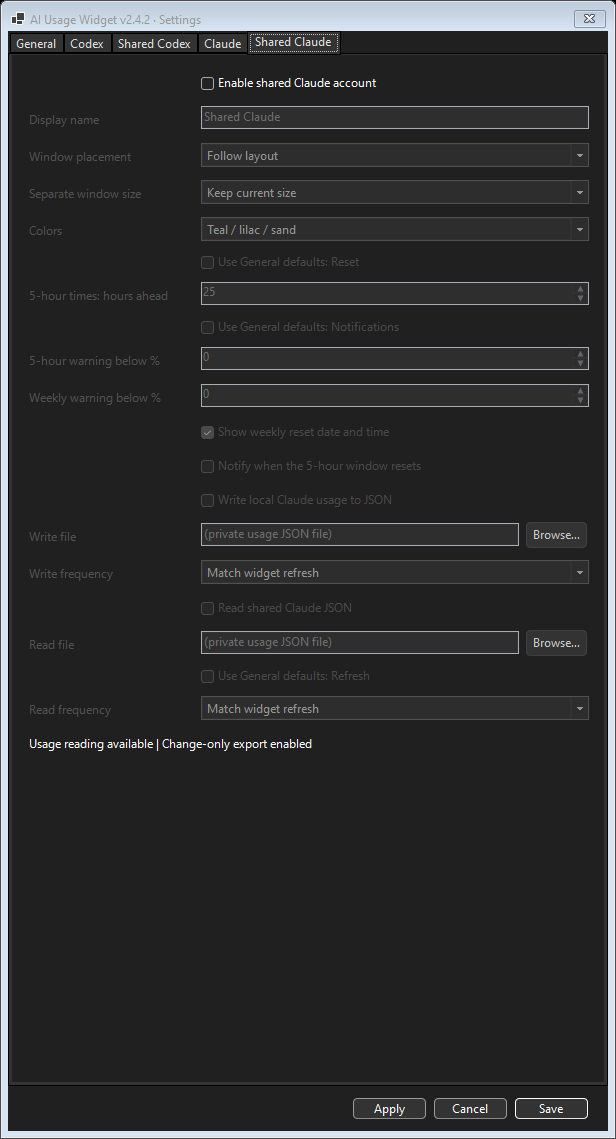
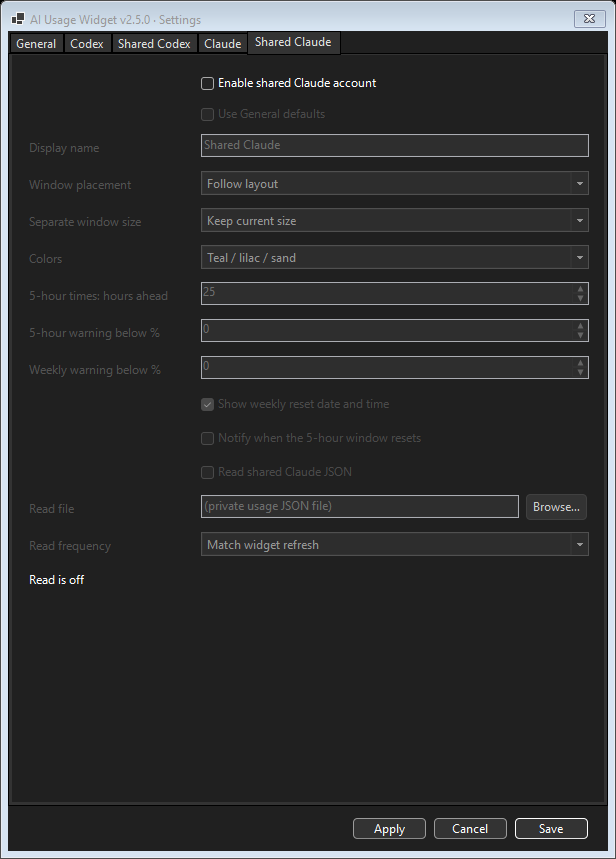
Fix refresh restoration and simplify source account settings

diff --git a/extradetails.md b/extradetails.md
@@ -2,7 +2,7 @@
 
 [Quick start and screenshots](README.md) · [Changelog](changelog.md)
 
-This guide covers AI Usage Widget 2.4.2.
+This guide covers AI Usage Widget 2.5.0.
 
 For development checks, see [tests/README.md](tests/README.md). The regression runner uses temporary state and example readings without accessing a live account.
 
@@ -99,30 +99,26 @@ Settings remains open without blocking either desktop window. Account picker lab
 
 **Apply** validates, saves, and displays changes without closing Settings. **Save** does the same and closes. **Cancel** discards unapplied edits; it does not undo changes already applied.
 
-Each account has separate **Use General defaults** switches for refresh, reset display and notifications. Codex accounts can also inherit credit display. Checked groups preview General's values and lock the account controls; unchecking restores custom values. **Apply** saves defaults and overrides without closing the dialog; **Cancel** discards changes made since the last Apply. Existing installations retain their account choices with inheritance off. Colors, names, account enable switches, connection files and publishing cadence remain independent. For shared sources, inherited refresh controls the input file-reading cadence.
+Each account has one **Use General defaults** switch at the top for refresh, reset display and notifications, plus credit display for Codex. Checking it previews General's values and locks those account controls; unchecking restores all manual values. Earlier mixed inheritance is preserved with a mixed mark until you change the switch. **Apply** saves defaults and overrides without closing the dialog; **Cancel** discards changes made since the last Apply. Existing account choices and saved manual values are preserved. Colors, names, account enable switches, connection files and publishing cadence remain independent. For shared sources, inherited refresh controls the input file-reading cadence.
 
 Wide, short windows automatically show static metric columns: 5-hour, weekly and credits when enabled. Account names remain above each group; unavailable/disabled Claude credits stay blank. There is no animation or scrolling. Shrinking to about menu-bar height puts each account name and its metrics on one line. As width decreases, countdowns drop before metric labels; names shorten only afterward. Full reset details remain available on hover, and the thin height is saved for reopening. Stacked accounts each retain one readable line. Increasing height restores the larger layouts.
 
-**Enable shared Codex account** unlocks its controls. Turning it off and applying stops file writing/reading, hides the second account, stops its alerts and file timers, and preserves all connection and account choices. The switch remains available while the rest of Shared is locked. Writing and reading have independent switches within the enabled tab.
+**Enable shared Codex account** unlocks imported-account controls. Turning it off stops imported readings, display and alerts while preserving its saved choices. Local publishing is independent: configure **Write my usage to JSON** on **Codex** or **Write local Claude usage to JSON** on **Claude**. Publishing stops when that local source is disabled. Shared tabs contain only incoming file connections.
 
-Codex and Shared screenshots are in the [README](README.md). File connections appear farther down Shared:
-
-<img src="docs/screenshots/settings-shared-connections.png" alt="Shared file connection settings" width="340">
-
-<img src="docs/screenshots/settings-menu.png" alt="Tray menu" width="220">
+Current account and connection screenshots are in the [README](README.md).
 
 ## Two computers and file sharing
 
 The same OneDrive folder can be used from multiple Windows computers at the same time. Each computer needs Codex and PowerShell 7 installed and must be signed in to Codex locally. Credentials and Codex caches remain local to each computer; the widget scripts sync through OneDrive. Optional usage JSON files contain quota information, not credentials.
 
 
-Sharing is opt-in and configured separately on each computer under **Settings... → Shared Codex**. Both machines need access to a private synced folder, such as OneDrive. They may use different Codex accounts. Keep the JSON files outside the public widget project and do not commit them to Git.
+Sharing is opt-in: outgoing Codex files are configured under **Settings... → Codex**, and incoming files under **Shared Codex**. Both machines need access to a private synced folder, such as OneDrive. They may use different Codex accounts. Keep the JSON files outside the public widget project and do not commit them to Git.
 
 1. Create a private shared folder, for example `WidgetUsage`, separate from this project.
-2. On Computer A, turn on **Enable shared Codex account**, enable **Write my usage to JSON**, give it a nickname, and choose a new `account-a.json` output file. Save to create its first file after a successful local reading.
-3. On Computer B, enable Shared and do the same with a different nickname and `account-b.json`.
-4. After the files sync, enable **Read the shared computer's JSON** on A and select B's file; on B select A's file. Paths may differ between computers. Never select the same file as input and output.
-5. On **Shared Codex**, select Side by side, Stacked, Account picker, or Separate windows and a palette for the second account. Use **Codex** for the local palette. Then choose a window preset if needed.
+2. On Computer A, open **Codex**, enable **Write my usage to JSON**, give it a nickname, and choose a new `account-a.json` output file. Save to create its first file after a successful local reading.
+3. On Computer B, use **Codex** to do the same with a different nickname and `account-b.json`. Neither computer needs to enable its shared account just to publish.
+4. After the files sync, enable **Shared Codex** and **Read the shared computer's JSON** on A and select B's file; on B select A's file. Paths may differ between computers. Never select the same file as input and output.
+5. On **General**, select Side by side, Stacked, Account picker, or Separate windows. Use **Shared Codex** for the shared palette and **Codex** for the local palette. Then choose a window preset if needed.
 
 | Connection | Computer A | Computer B |
 | --- | --- | --- |
@@ -172,7 +168,7 @@ Choose an independent refresh interval and palette, reset details, warning thres
 
 ## Sharing Claude between computers
 
-In **Shared Claude**, enable the master switch and choose separate Claude output and input JSON files outside the public project. Each computer writes its own local Claude reading and reads the other computer’s file. Do not reuse Codex JSON files: snapshots carry a provider label and incorrect provider files are rejected. Both computers should use version 2.2.0 or later.
+In **Claude**, enable local JSON writing and choose an output file outside the public project. In **Shared Claude**, enable the imported account and choose its input JSON file only when you want to read another computer. Each computer writes its own local Claude reading and reads the other computer’s file. Do not reuse Codex JSON files: snapshots carry a provider label and incorrect provider files are rejected. Both computers should use version 2.2.0 or later.
 
 Write and read switches and intervals are independent. Matching reads follow the local Claude refresh interval even if local Claude is disabled; manual-only stays manual. Local Claude must be enabled and freshly connected to publish new readings. Exports change only when usage or account metadata changes, with automatic 30-minute check-ins. Shared Claude has its own colors, reset display, notifications, placement, window size and position. Its name comes from the imported file. Failed or stale imports keep the last known reading and cannot trigger fresh-usage alerts.
 

diff --git a/README.md b/README.md
@@ -4,7 +4,7 @@
 
 A small Windows desktop and tray widget for **Codex and Claude subscription usage left**, reset times, credits where available, and notifications. Show local accounts and accounts from another computer through private shared JSON files.
 
-**Version 2.4.2** · [Changelog](changelog.md) · [Detailed guide and troubleshooting](extradetails.md)
+**Version 2.5.0** · [Changelog](changelog.md) · [Detailed guide and troubleshooting](extradetails.md)
 
 ## Quick start
 
@@ -34,7 +34,7 @@ Drag to move; hover to resize from either bottom corner. Use **↻** to refresh,
 
 ## Settings
 
-Right-click the tray icon → **Settings...**. **General** holds window/startup controls and default refresh, reset-display, notification and Codex credit settings. **Codex**, **Shared Codex**, **Claude**, and **Shared Claude** each have separate “Use General defaults” switches by group; unchecking restores the account’s custom values. Colors stay independent. Turn off any source you do not use; its panel, refreshes and alerts stop. You can use the widget while Settings is open. **Apply** updates the widget without closing Settings; **Save** applies and closes. Shared settings lock when **Enable shared Codex account** is off. Hover over settings or their labels for help. **0 disables a warning threshold.** Reset alerts require weekly quota above 0%.
+Right-click the tray icon → **Settings...**. **General** holds window/startup controls and default refresh, reset-display, notification and Codex credit settings. **Codex**, **Shared Codex**, **Claude**, and **Shared Claude** each have one “Use General defaults” switch at the top for all supported account settings; unchecking restores the account’s manual values. Colors stay independent. Turn off any source you do not use; its panel, refreshes and alerts stop. You can use the widget while Settings is open. **Apply** updates the widget without closing Settings; **Save** applies and closes. Shared settings lock when **Enable shared Codex account** is off. Hover over settings or their labels for help. **0 disables a warning threshold.** Reset alerts require weekly quota above 0%.
 
 | General defaults | Shared Codex |
 | --- | --- |
@@ -49,11 +49,11 @@ Right-click the tray icon → **Settings...**. **General** holds window/startup 
 
 </details>
 
-For two accounts, choose a private synced folder outside this project. Each computer writes its own file and reads the other's. Shared starts off; enable it to unlock the connection and second-account settings. Choose **Side by side**, **Stacked**, **Account picker**, or **Separate windows**; Side by side keeps two numeric columns at Mini size. Separate windows remember independent sizes and positions; use the tray menu to reopen either account. File checks can match the widget or use separate timers. Exports change only when usage or account details change, with an automatic check-in at least every 30 minutes. [Setup instructions](extradetails.md#two-computers-and-file-sharing).
+For two accounts, choose a private synced folder outside this project. Each computer writes its own file from its **Codex** or **Claude** source tab and reads the other’s from **Shared Codex** or **Shared Claude**. Exporting works with the shared account disabled; enable shared accounts only to import readings. Choose **Side by side**, **Stacked**, **Account picker**, or **Separate windows**; Side by side keeps two numeric columns at Mini size. Separate windows remember independent sizes and positions; use the tray menu to reopen either account. File checks can match the widget or use separate timers. Exports change only when usage or account details change, with an automatic check-in at least every 30 minutes. [Setup instructions](extradetails.md#two-computers-and-file-sharing).
 
 For Claude, enable it in **Settings → Claude**, click **Apply**, then **Connect / open Claude Usage** and sign in on Claude’s website. An optional Microsoft WebView2 browser profile stays private on this computer. Developer API token usage and spending are not included. [Claude setup and limitations](extradetails.md#claude-subscriptions).
 
-Screenshots are rendered from the current widget with real usage readings captured for this release. Account names are neutral and private file paths are replaced with placeholders. Settings stay local to each computer.
+Widget screenshots show captured real usage readings; settings screenshots show the current release. Account names are neutral and private file paths are replaced with placeholders. Settings stay local to each computer.
 
 ## Disclaimer
 

diff --git a/changelog.md b/changelog.md
@@ -2,6 +2,13 @@
 
 [Back to README](README.md)
 
+## 2.5.0 — October 7, 2026
+
+- Normalize JSON integer types before restoring refresh dropdowns, preventing saved intervals from silently selecting Manual only when Settings reopens. Verify untouched Apply and restart persistence.
+- Replace repeated account inheritance checkboxes with one top-level Use General defaults switch per account. Preserve custom overrides and earlier mixed inheritance until the switch is changed; palettes and file connections remain independent.
+- Move local JSON export controls to Codex and Claude. Keep imports on the shared tabs, and allow source-only exports and check-ins with imported accounts disabled. Preserve existing paths and source IDs.
+- Refresh the settings screenshots and add source-only sharing and simplified defaults regression coverage.
+
 ## 2.4.2 — October 4, 2026
 
 - Refresh the desktop shortcut icon with a dark dashboard tile and blue, purple and sage bars, including seven native Windows icon sizes. Add the artwork generator for future updates.
